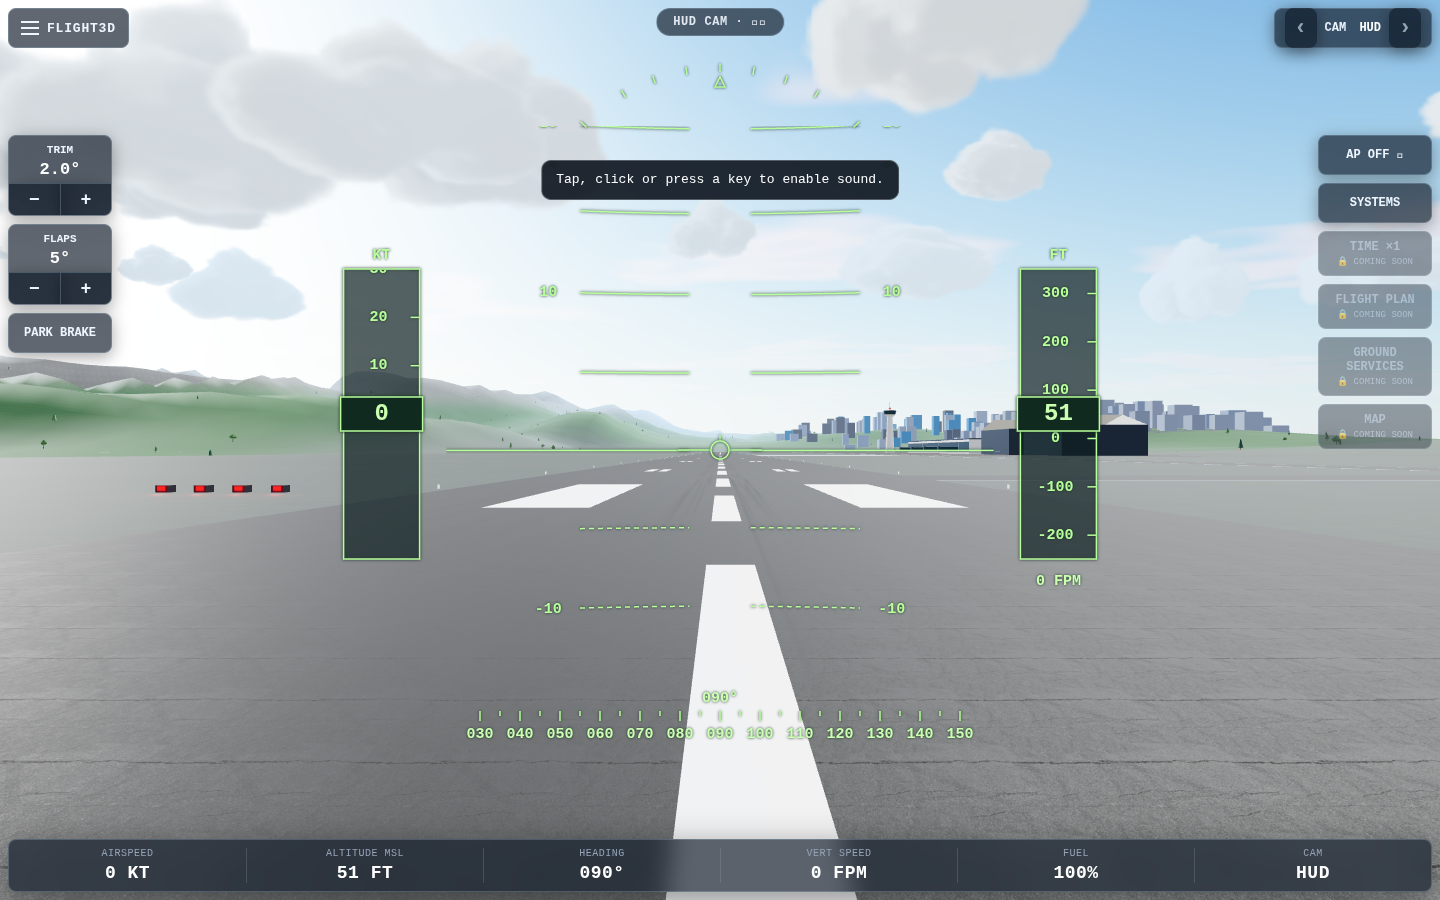
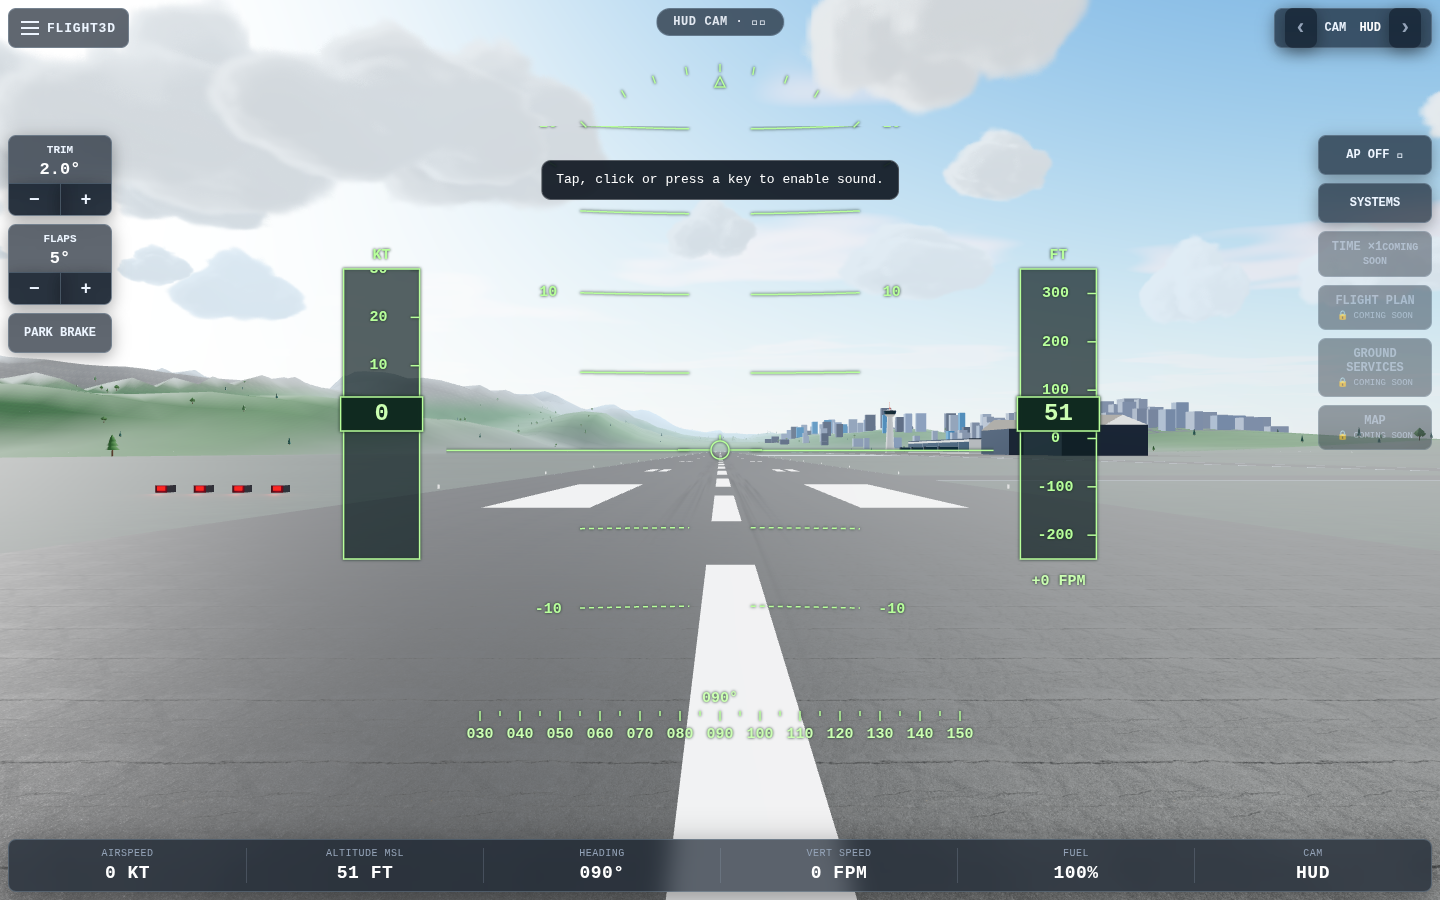
feat: align mobile HUD buttons and telemetry ribbon closely with desktop

diff --git a/src/styles/lobby-and-overlays.css b/src/styles/lobby-and-overlays.css
@@ -238,7 +238,15 @@ body.booting .menu-toggle { display: none !important; }
   pointer-events: auto;
   transition: background 0.2s ease, border-color 0.2s ease;
 }
-.compact-ui .menu-toggle-title { display: none; }
+.compact-ui .menu-toggle {
+  height: 36px;
+  padding: 0 10px;
+  font-size: 11px;
+}
+.compact-ui .menu-toggle-title {
+  display: inline;
+  font-size: 11px;
+}
 /* With the strip hidden in the menu, keep its close affordance off the card. */
 body[data-flow="lobby"] .menu-toggle {
   top: var(--edge-top);
@@ -555,26 +563,42 @@ body.hud-camera-mode .hud-top-actions {
 .hud-systems-panel { position: absolute; top: max(133px, calc(17% + 54px)); right: calc(var(--edge-right) + 124px); width: 210px; padding: 8px; display: grid; gap: 6px; pointer-events: auto; max-height: calc(100dvh - 200px); overflow-y: auto; }
 body:is([data-flow="lobby"], [data-flow="paused"], .booting) #hud-view { display: none; }
 
-/* Responsive adjustments for mobile: ensure ZERO overlapping */
+/* Responsive adjustments for mobile: keep buttons as close as desktop with ZERO overlapping */
 @media (max-width: 768px) {
-  .hud-side { width: 72px; top: 68px; gap: 6px; }
-  .hud-side-right { width: 84px; }
-  #hud-view .hud-side button { font-size: 10px; min-height: 36px; padding: 4px; }
+  .hud-center-badge {
+    padding: 4px 10px;
+    font-size: 11px;
+    height: 36px;
+    border-radius: 8px;
+  }
+  .hud-camera-switch {
+    height: 36px;
+    padding: 0 8px;
+    font-size: 11px;
+  }
+  .hud-side { width: 92px; top: 48px; gap: 6px; }
+  .hud-side-right { width: 96px; }
+  #hud-view .hud-side button { font-size: 11px; min-height: 34px; padding: 4px; }
   .hud-control-card { padding-top: 4px; font-size: 10px; gap: 2px; }
-  .hud-control-card output { font-size: 14px; }
+  .hud-control-card output { font-size: 15px; }
+  #hud-view .hud-pair button { font-size: 16px; min-height: 28px; }
   .hud-unavailable { display: none !important; }
-  .hud-flight-footer { grid-template-columns: repeat(6, minmax(0, 1fr)); padding: 6px 0; }
+  .hud-flight-footer {
+    grid-template-columns: repeat(6, minmax(0, 1fr));
+    padding: 6px 0;
+  }
   .hud-flight-footer > div { font-size: 8px; gap: 2px; }
   .hud-flight-footer output { font-size: 13px; }
 }
 
 @media (max-height: 520px) {
-  .hud-side { top: 52px; gap: 4px; width: 78px; }
-  .hud-side-right { width: 84px; }
+  .hud-side { top: 46px; gap: 4px; width: 88px; }
+  .hud-side-right { width: 92px; }
   .hud-unavailable { display: none !important; }
-  #hud-view .hud-side button { font-size: 9px; min-height: 30px; padding: 2px; }
+  #hud-view .hud-side button { font-size: 10px; min-height: 30px; padding: 2px 4px; }
   .hud-control-card { padding-top: 2px; font-size: 9px; gap: 1px; }
-  .hud-control-card output { font-size: 13px; }
+  .hud-control-card output { font-size: 14px; }
+  #hud-view .hud-pair button { font-size: 15px; min-height: 26px; }
   .hud-flight-footer { padding: 4px 0; }
   .hud-flight-footer output { font-size: 13px; }
   .hud-flight-footer > div { font-size: 8px; }
@@ -586,18 +610,37 @@ body:is([data-flow="lobby"], [data-flow="paused"], .booting) #hud-view { display
 }
 
 @media (max-width: 540px) {
-  .hud-side-left { top: 52px; width: 68px; gap: 4px; }
-  .hud-side-right { top: 52px; width: 76px; gap: 4px; }
+  .menu-toggle {
+    height: 34px;
+    padding: 0 8px;
+    font-size: 11px;
+    gap: 5px;
+  }
+  .hud-center-badge {
+    height: 34px;
+    padding: 2px 8px;
+    font-size: 10.5px;
+  }
+  .hud-camera-switch {
+    height: 34px;
+    padding: 0 4px;
+    gap: 2px;
+    font-size: 11px;
+  }
+  #hud-view .hud-camera-switch button {
+    min-width: 22px;
+    font-size: 18px;
+  }
+  .hud-side-left { top: 46px; width: 84px; gap: 4px; }
+  .hud-side-right { top: 46px; width: 88px; gap: 4px; }
   .hud-unavailable { display: none !important; }
   .touch-mode #hud-view .hud-flight-footer {
     left: var(--edge-left);
     right: var(--edge-right);
     bottom: calc(var(--edge-bottom) + 140px);
-    grid-template-columns: repeat(3, minmax(0, 1fr));
-    row-gap: 4px;
-    padding: 4px;
+    grid-template-columns: repeat(6, minmax(0, 1fr));
+    padding: 6px 0;
   }
-  .touch-mode #hud-view .hud-flight-footer > div:nth-child(4) { border-left: 0; }
 }
 
 

diff --git a/src/ui/HudView.js b/src/ui/HudView.js
@@ -27,7 +27,8 @@ export class HudView {
       <div class="hud-side hud-side-right">
         <button type="button" id="hud-autopilot" aria-controls="ap-panel" aria-expanded="false">AP OFF</button>
         <button type="button" id="hud-systems" data-hud-label="hud.systems" aria-controls="hud-systems-panel" aria-expanded="false"></button>
-        ${['time', 'plan', 'ground', 'map'].map(name => `<button type="button" class="hud-unavailable" disabled><span data-hud-label="hud.${name}"></span><small data-hud-label="hud.soon"></small></button>`).join('')}
+        <button type="button" id="hud-time-accel" class="hud-btn-time" disabled><span data-hud-label="hud.time"></span><small data-hud-label="hud.soon"></small></button>
+        ${['plan', 'ground', 'map'].map(name => `<button type="button" class="hud-unavailable" disabled><span data-hud-label="hud.${name}"></span><small data-hud-label="hud.soon"></small></button>`).join('')}
       </div>
       <div id="hud-systems-panel" class="hud-systems-panel" hidden></div>
       <footer class="hud-flight-footer">${[['speed','AIRSPEED'], ['altitude','ALTITUDE MSL'], ['heading','HEADING'], ['vsi','VERT SPEED'], ['fuel','FUEL'], ['camera','CAM']].map(([name,label]) => `<div><span>${label}</span><output id="hud-footer-${name}"></output></div>`).join('')}</footer>`;
